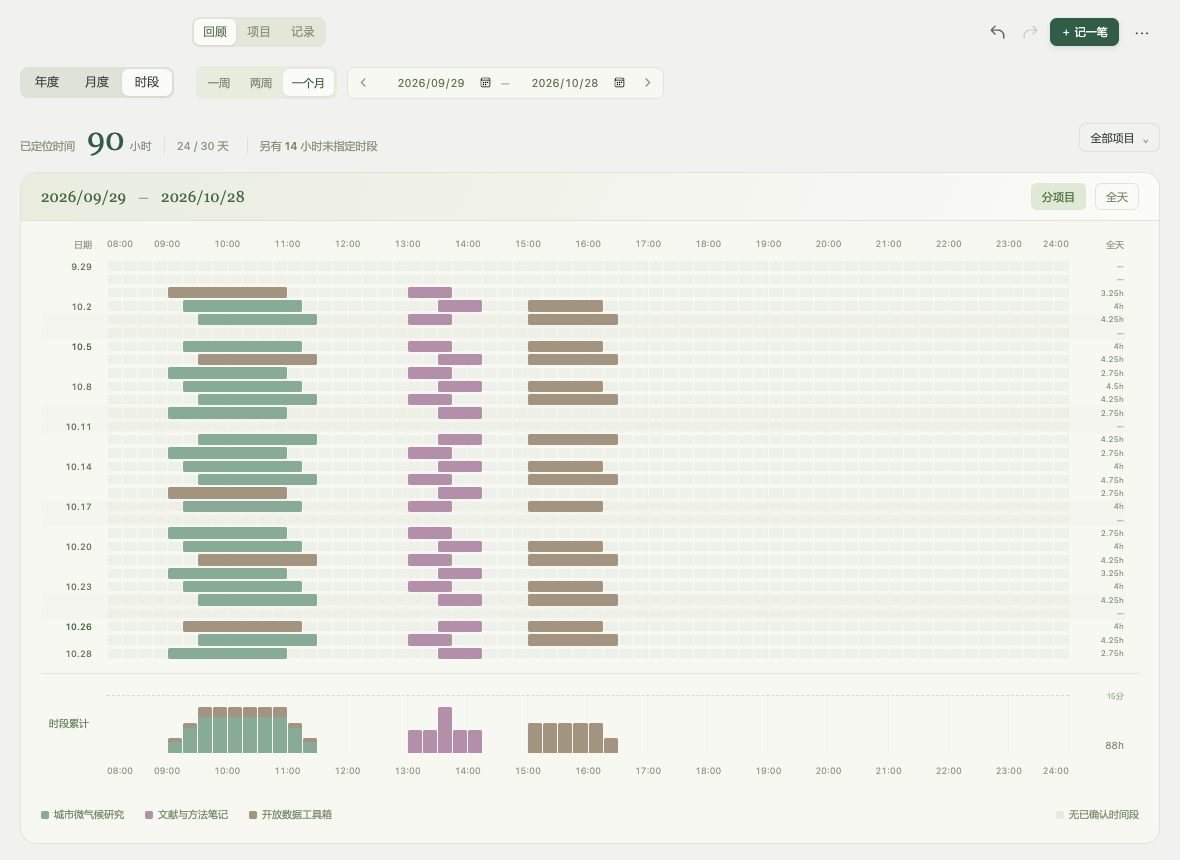
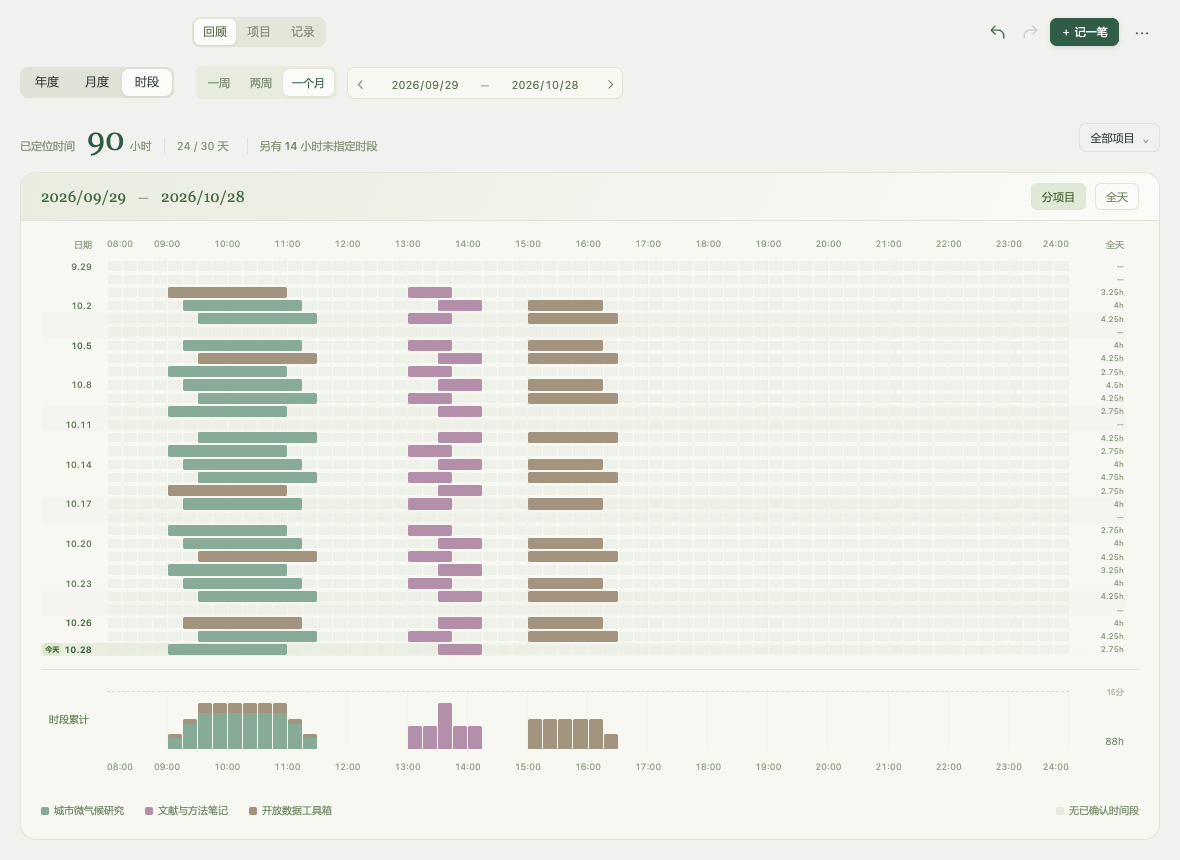
Add today marker and daily project hover; refine day navigation and inspector layout

diff --git a/src/web/time-review.js b/src/web/time-review.js
@@ -5,10 +5,20 @@ const clock=n=>n===1440?'24:00':`${String(Math.floor(n/60)).padStart(2,'0')}:${S
 const duration=n=>n>=60?fmt(n/60)+' 小时':fmt(n)+' 分钟';
 const color=value=>/^#[0-9a-f]{3,8}$/i.test(value||'')?value:'#8ba682';
 export function createTimeReview(root,{today,onChange,onSelect,onTimeline,onScroll}){
- let model=null,options=null,tip=null,highlighted='',wheelAmount=0,wheelTimer=0;
- const fit=()=>{const days=root.querySelector('.tr-days'),paper=root.querySelector('.tr-paper');if(!days||!root.getBoundingClientRect().width)return;const main=root.closest('main'),bottom=Math.min(innerHeight,main?.getBoundingClientRect().bottom||innerHeight),reserve=paper.getBoundingClientRect().bottom-days.getBoundingClientRect().bottom,available=Math.max(140,bottom-days.getBoundingClientRect().top-reserve-16),rowHeight=Math.max(10,Math.min(27,available/model.rows.length));days.style.height=rowHeight*model.rows.length+'px';days.classList.toggle('is-dense',rowHeight<19);days.style.setProperty('--tr-label-step',rowHeight<19?3:1)};
- const hideTip=()=>{if(tip)tip.hidden=true};
+ let model=null,options=null,tip=null,highlighted='',wheelAmount=0,wheelTimer=0,tipHideTimer=0,lastWheelStep=0;
+ const fit=()=>{
+  const days=root.querySelector('.tr-days'),paper=root.querySelector('.tr-paper');if(!days||!root.getBoundingClientRect().width)return;
+  const main=root.closest('main'),mainRect=main?.getBoundingClientRect(),bottom=Math.min(innerHeight,mainRect?.bottom||innerHeight)-parseFloat(main?getComputedStyle(main).paddingBottom:0),reserve=paper.getBoundingClientRect().bottom-days.getBoundingClientRect().bottom,available=Math.max(140,bottom-days.getBoundingClientRect().top-reserve),rowHeight=Math.max(10,available/model.rows.length);
+  days.style.height=rowHeight*model.rows.length+'px';days.classList.toggle('is-dense',rowHeight<19);
+  const axes=[...root.querySelectorAll('.tr-axis')],ticks=[...(axes[0]?.children||[])];ticks.forEach(t=>t.hidden=false);const hours=ticks.length-1,width=axes[0]?.getBoundingClientRect().width||1,widest=Math.max(0,...ticks.map(t=>t.getBoundingClientRect().width)),step=Array.from({length:hours},(_,i)=>i+1).find(n=>hours%n===0&&width/hours*n>=widest*1.5+8)||hours;
+  ticks.forEach((tick,i)=>{for(const axis of axes)axis.children[i].hidden=i%step!==0});
+  const layout=root.closest('.tr-layout'),sidebar=layout?.querySelector('.tr-inspector-host'),toolbar=root.closest('#page-review')?.querySelector('.toolbar');
+  if(sidebar&&toolbar){const split=!sidebar.hidden&&getComputedStyle(layout).gridTemplateColumns.split(' ').length>1;sidebar.style.marginTop=split?Math.min(0,toolbar.getBoundingClientRect().top-root.getBoundingClientRect().top)+'px':'0px';const top=sidebar.getBoundingClientRect().top,actions=sidebar.querySelector('.tr-inspector-actions').getBoundingClientRect().height;sidebar.style.setProperty('--tr-detail-height',Math.max(220,bottom-top-actions-8)+'px')}
+ };
+ const hideTip=()=>{clearTimeout(tipHideTimer);if(tip)tip.hidden=true};
+ const scheduleHide=()=>{clearTimeout(tipHideTimer);tipHideTimer=setTimeout(hideTip,100)};
  const request=next=>{hideTip();void onChange(next)};
+ function advanceWheel(){clearTimeout(wheelTimer);wheelTimer=0;if(Math.abs(wheelAmount)<180)return;const wait=160-(performance.now()-lastWheelStep);if(wait>0){wheelTimer=setTimeout(advanceWheel,wait);return}const direction=Math.sign(wheelAmount);wheelAmount=0;lastWheelStep=performance.now();shiftWindow(direction)}
  const lookup=id=>model.projects.find(p=>p.id===id);
  function paint(cell){
   if(!cell.minutes)return '';
@@ -28,9 +38,21 @@ export function createTimeReview(root,{today,onChange,onSelect,onTimeline,onScro
   const label=`${date} ${clock(cell.start)}–${clock(cell.start+15)}，${cell.minutes?cell.parts.map(p=>(lookup(p.projectId)?.name||'重叠待核对')+' '+duration(p.minutes)).join('，'):'无已确认时间段'}`;
   return `<button type="button" class="tr-cell ${cell.minutes?'has-time':''} ${connected(previous)?'joins-before':''} ${connected(next)?'joins-after':''}" data-tr-date="${date}" data-tr-cell="${index}" aria-label="${esc(label)}" ${index?'tabindex="-1"':''}>${paint(cell)}</button>`;
  }
+ function ensureTip(){clearTimeout(tipHideTimer);if(!tip){tip=document.createElement('div');tip.id='time-review-tip';tip.setAttribute('role','tooltip');tip.onpointerenter=()=>clearTimeout(tipHideTimer);tip.onpointerleave=hideTip;document.body.append(tip)}return tip}
+ function positionTip(target,event){
+  const rect=target.getBoundingClientRect(),box=tip.getBoundingClientRect(),x=event?.clientX??rect.left,y=event?.clientY??rect.bottom;
+  tip.style.left=Math.max(12,Math.min(x+14,innerWidth-box.width-12))+'px';
+  tip.style.top=(y+box.height+18<innerHeight?y+14:Math.max(12,y-box.height-14))+'px';
+ }
+ function showDayTip(target,event){
+  const row=model.rows.find(r=>r.date===target.dataset.trRow);if(!row)return;
+  ensureTip();tip.className='tr-tip tr-day-tip';const d=parseDate(row.date),weekday=['日','一','二','三','四','五','六'][d.getDay()];
+  tip.innerHTML=`<div class="tr-day-tip-date"><time>${row.date.replaceAll('-','/')} · 周${weekday}</time>${row.date===today?'<span>今天</span>':''}</div><div class="tr-day-tip-total"><span>已定位时间</span><strong>${duration(row.totalMinutes)}</strong></div>${row.projectMinutes.length?`<div class="tr-day-tip-bar" aria-hidden="true">${row.projectMinutes.map(p=>`<i class="${p.projectId==='!conflict'?'tr-conflict':''}" style="width:${p.minutes/row.totalMinutes*100}%;background:${color(lookup(p.projectId)?.color)}"></i>`).join('')}</div><div class="tr-day-tip-projects">${row.projectMinutes.map(p=>`<div><i class="${p.projectId==='!conflict'?'tr-conflict':''}" style="background:${color(lookup(p.projectId)?.color)}"></i><span>${esc(lookup(p.projectId)?.name||'重叠待核对')}</span><b>${duration(p.minutes)}</b><small>${fmt(p.minutes/row.totalMinutes*100)}%</small></div>`).join('')}</div>`:'<p class="tr-day-tip-empty">当天还没有已确认的时间段</p>'}${row.unlocatedHours||row.missingEstimates?`<div class="tr-day-tip-other">${row.unlocatedHours?`另有 ${fmt(row.unlocatedHours)} 小时未指定时段`:''}${row.missingEstimates?`${row.unlocatedHours?' · ':''}${row.missingEstimates} 条时长待配置`:''}</div>`:''}`;
+  tip.hidden=false;positionTip(target,event);
+ }
  function showTip(target){
   const row=target.closest('[data-tr-row]'),index=Number(target.dataset.trCell),cell=row?model.rows.find(r=>r.date===row.dataset.trRow)?.cells[index]:model.summary[index];if(!cell)return;
-  if(!tip){tip=document.createElement('div');tip.className='tr-tip';tip.id='time-review-tip';tip.setAttribute('role','tooltip');document.body.append(tip)}
+  ensureTip();tip.className='tr-tip';
   const date=row?`${row.dataset.trRow} · `:'时段累计 · ';const parts=!row&&highlighted?cell.parts.filter(p=>p.projectId===highlighted):cell.parts,total=parts.reduce((n,p)=>n+p.minutes,0);
   tip.innerHTML=`<small>${esc(date)}</small><div class="tr-tip-heading"><strong>${clock(cell.start)}–${clock(cell.start+15)}</strong><span>${duration(total)}</span></div>${parts.length?`<div class="tr-tip-projects">${parts.map(p=>`<div><i style="background:${color(lookup(p.projectId)?.color)}"></i><span>${esc(lookup(p.projectId)?.name||'重叠待核对')}</span><b>${duration(p.minutes)}</b></div>`).join('')}</div>`:'<p>没有已确认的时间段，不能据此判断这时没有工作。</p>'}${!row?`<p>柱高为 ${model.rows.length} 天的日均值：${duration(total/model.rows.length)}；上限 15 分钟。</p>`:'<p>点击查看当天记录 · 方向键切换时间格</p>'}`;
   tip.hidden=false;const rect=target.getBoundingClientRect(),box=tip.getBoundingClientRect();tip.style.left=Math.max(12,Math.min(rect.left,innerWidth-box.width-12))+'px';tip.style.top=(rect.bottom+box.height+12<innerHeight?rect.bottom+8:Math.max(8,rect.top-box.height-8))+'px';
@@ -41,11 +63,11 @@ export function createTimeReview(root,{today,onChange,onSelect,onTimeline,onScro
   const first=options.startHour===0?0:8,hours=24-first,slots=hours*4;
   const ticks=Array.from({length:hours+1},(_,i)=>`<span style="left:${i/hours*100}%">${String(first+i).padStart(2,'0')}:00</span>`).join('');
   const rows=model.rows.map(row=>{const d=parseDate(row.date),weekend=[0,6].includes(d.getDay()),weekStart=d.getDay()===1;
-   return `<div class="tr-row ${weekend?'is-weekend':''} ${weekStart?'starts-week':''} ${next.selectedDate===row.date?'is-selected':''}" data-tr-row="${row.date}"><button class="tr-day-label" data-tr-date="${row.date}" aria-label="查看 ${row.date} 当日记录"><strong>${Number(row.date.slice(5,7))}.${Number(row.date.slice(8))}</strong><small>${['日','一','二','三','四','五','六'][d.getDay()]}</small></button><div class="tr-cells">${row.cells.map((c,i)=>cellHTML(c,i,row.date,row.cells[i-1],row.cells[i+1])).join('')}</div><span class="tr-day-total" title="全天已确认时长，包括当前横轴未显示的时段">${row.totalMinutes?fmt(row.totalMinutes/60)+'h':'—'}</span></div>`;
+   return `<div class="tr-row ${weekend?'is-weekend':''} ${weekStart?'starts-week':''} ${row.date===today?'is-today':''} ${next.selectedDate===row.date?'is-selected':''}" data-tr-row="${row.date}"><button class="tr-day-label" data-tr-date="${row.date}" aria-label="查看 ${row.date}${row.date===today?'，今天':''} 当日记录" ${row.date===today?'aria-current="date"':''}><strong>${Number(row.date.slice(5,7))}.${Number(row.date.slice(8))}</strong>${row.date===today?'<span class="tr-today-tag" aria-hidden="true">今天</span>':`<small>${['日','一','二','三','四','五','六'][d.getDay()]}</small>`}</button><div class="tr-cells">${row.cells.map((c,i)=>cellHTML(c,i,row.date,row.cells[i-1],row.cells[i+1])).join('')}</div><span class="tr-day-total" title="全天已确认时长，包括当前横轴未显示的时段">${row.totalMinutes?fmt(row.totalMinutes/60)+'h':'—'}</span></div>`;
   }).join('');
   const legend=next.colorMode==='project'?model.projects.filter(p=>model.usedProjects.includes(p.id)).map(p=>`<button type="button" data-tr-highlight="${esc(p.id)}" aria-label="突出显示 ${esc(p.name)}"><i style="background:${color(p.color)}"></i>${esc(p.name)}</button>`).join(''):`<span><i class="tr-ink tr-level-5"></i>已确认</span>`;
   const side=next.anchorSide==='start'?'start':'end';
-  root.innerHTML=`<div class="tr-controls"><div class="tr-presets" aria-label="显示天数">${[['7','一周'],['14','两周'],['30','一个月']].map(([key,label])=>`<button type="button" data-tr-preset="${key}" aria-pressed="${next.preset===key}" class="quiet ${next.preset===key?'active':''}" title="固定显示 ${key} 天">${label}</button>`).join('')}</div><div class="tr-date-fields"><button id="tr-prev" aria-label="前一段日期"><svg viewBox="0 0 20 20" aria-hidden="true"><path d="m12 5-5 5 5 5"/></svg></button><input id="tr-start" type="date" min="1900-01-01" max="2200-12-31" value="${next.start}" aria-label="时段开始日期"><span class="tr-date-separator">—</span><input id="tr-end" type="date" min="1900-01-01" max="2200-12-31" value="${next.end}" aria-label="时段结束日期"><button id="tr-next" aria-label="后一段日期"><svg viewBox="0 0 20 20" aria-hidden="true"><path d="m8 5 5 5-5 5"/></svg></button></div></div><p id="tr-range-error" class="tr-error" role="alert" hidden></p>
+  root.innerHTML=`<div class="tr-controls"><div class="tr-presets" aria-label="显示天数">${[['7','一周'],['14','两周'],['30','一个月']].map(([key,label])=>`<button type="button" data-tr-preset="${key}" aria-pressed="${next.preset===key}" class="quiet ${next.preset===key?'active':''}" title="固定显示 ${key} 天">${label}</button>`).join('')}</div><div class="tr-date-fields"><button id="tr-prev" aria-label="前一天"><svg viewBox="0 0 20 20" aria-hidden="true"><path d="m12 5-5 5 5 5"/></svg></button><input id="tr-start" type="date" min="1900-01-01" max="2200-12-31" value="${next.start}" aria-label="时段开始日期"><span class="tr-date-separator">—</span><input id="tr-end" type="date" min="1900-01-01" max="2200-12-31" value="${next.end}" aria-label="时段结束日期"><button id="tr-next" aria-label="后一天"><svg viewBox="0 0 20 20" aria-hidden="true"><path d="m8 5 5 5-5 5"/></svg></button></div></div><p id="tr-range-error" class="tr-error" role="alert" hidden></p>
   <div class="tr-overview"><div><span>已定位时间</span><strong>${fmt(model.totalMinutes/60)}<small>小时</small></strong><span class="tr-days-count">${model.recordedDays} / ${model.rows.length} 天</span><p>另有 <b>${fmt(model.unlocatedHours)}</b> 小时未指定时段${model.estimatedHours?'（含估算）':''}${model.missingEstimates?` · ${model.missingEstimates} 条待配置估算`:''}</p></div></div>
   <div class="tr-outside-tools"><div id="tr-project-filter-host" class="filters"></div></div><section class="tr-paper" aria-label="日期与时间段热力图"><div class="tr-chart-tools"><div class="tr-range-caption"><time datetime="${next.start}">${next.start.replaceAll('-','/')}</time><span>—</span><time datetime="${next.end}">${next.end.replaceAll('-','/')}</time></div><div class="tr-display-controls"><button type="button" id="tr-by-project" aria-pressed="${next.colorMode==='project'}" class="quiet ${next.colorMode==='project'?'active':''}">分项目</button><button id="tr-full-day" class="quiet ${first===0?'active':''}" aria-pressed="${first===0}">全天</button></div></div>
   ${model.conflictMinutes?'<p class="tr-outside">部分已确认区间重叠，已去重；项目归属请到记录页核对。</p>':''}
@@ -57,23 +79,26 @@ export function createTimeReview(root,{today,onChange,onSelect,onTimeline,onScro
   root.querySelectorAll('[data-tr-preset]').forEach(b=>b.onclick=()=>request({...timeReviewRange(b.dataset.trPreset,next[side],side),selectedDate:'',scrollTop:0}));
   root.querySelector('#tr-by-project').onclick=()=>request({colorMode:next.colorMode==='project'?'effort':'project'});
   root.querySelector('#tr-full-day').onclick=()=>request({startHour:first===0?8:0});
-  root.querySelector('#tr-prev').onclick=()=>shiftWindow(-model.rows.length);root.querySelector('#tr-next').onclick=()=>shiftWindow(model.rows.length);
+  root.querySelector('#tr-prev').onclick=()=>shiftWindow(-1);root.querySelector('#tr-next').onclick=()=>shiftWindow(1);
+  for(const id of ['tr-start','tr-end'])root.querySelector('#'+id).onclick=e=>{try{e.currentTarget.showPicker?.()}catch{}};
   for(const [id,side]of [['tr-start','start'],['tr-end','end']])root.querySelector('#'+id).onchange=e=>{const anchor=e.target.value,notice=root.querySelector('#tr-range-error'),range=validTimeDate(anchor)?timeReviewRange(next.preset,anchor,side):null,valid=range&&validTimeDate(range.start)&&validTimeDate(range.end);notice.hidden=!!valid;if(!valid){notice.textContent='请选择有效日期。';return}request({...range,selectedDate:'',scrollTop:0})};
-  root.querySelector('.tr-days').addEventListener('wheel',e=>{if(Math.abs(e.deltaX)>=Math.abs(e.deltaY)||e.ctrlKey||e.metaKey)return;e.preventDefault();wheelAmount+=e.deltaY*(e.deltaMode===1?16:e.deltaMode===2?200:1);clearTimeout(wheelTimer);wheelTimer=setTimeout(()=>{const steps=Math.trunc(wheelAmount/35);wheelAmount=0;if(steps)shiftWindow(Math.max(-model.rows.length,Math.min(model.rows.length,steps)))},100)},{passive:false});
+  root.querySelector('.tr-days').addEventListener('wheel',e=>{if(Math.abs(e.deltaX)>=Math.abs(e.deltaY)||e.ctrlKey||e.metaKey)return;e.preventDefault();wheelAmount=Math.max(-240,Math.min(240,wheelAmount+e.deltaY*(e.deltaMode===1?16:e.deltaMode===2?180:1)));advanceWheel()},{passive:false});
   root.querySelectorAll('[data-tr-highlight]').forEach(b=>{b.onpointerenter=()=>highlight(b.dataset.trHighlight);b.onpointerleave=()=>highlight('');b.onfocus=()=>highlight(b.dataset.trHighlight);b.onblur=()=>highlight('')});
   root.querySelectorAll('[data-tr-date]').forEach(b=>b.onclick=()=>{hideTip();const row=model.rows.find(r=>r.date===b.dataset.trDate),cell=b.dataset.trCell!==undefined?row?.cells[Number(b.dataset.trCell)]:null,id=cell?.parts.length===1&&lookup(cell.parts[0].projectId)?cell.parts[0].projectId:null;void onSelect(b.dataset.trDate,id)});
+  root.querySelectorAll('[data-tr-row]').forEach(row=>{row.onpointerenter=e=>showDayTip(row,e);row.onpointerleave=scheduleHide;row.onpointermove=e=>{if(tip&&!tip.hidden&&tip.classList.contains('tr-day-tip'))positionTip(row,e)};const date=row.querySelector('.tr-day-label');date.onfocus=()=>showDayTip(row);date.onblur=hideTip});
   wireCells();
   root.querySelector('.tr-days').onscroll=()=>{hideTip();onScroll?.({scrollTop:root.querySelector('.tr-days').scrollTop})};root.querySelector('.tr-scroll').onscroll=()=>{hideTip();onScroll?.({scrollLeft:root.querySelector('.tr-scroll').scrollLeft})};
   requestAnimationFrame(()=>{fit();root.querySelector('.tr-days').scrollTop=oldTop;root.querySelector('.tr-scroll').scrollLeft=oldLeft});
   root.querySelector('#tr-open-records')?.addEventListener('click',()=>onTimeline(next.end));
  }
  function wireCells(){
-  root.querySelectorAll('.tr-cell,.tr-summary-cell').forEach(b=>{b.onpointerenter=()=>showTip(b);b.onpointerleave=hideTip;b.onfocus=()=>showTip(b);b.onblur=hideTip;b.onkeydown=e=>{
+  root.querySelectorAll('.tr-cell,.tr-summary-cell').forEach(b=>{b.onpointerenter=e=>{const row=b.closest('[data-tr-row]');row?showDayTip(row,e):showTip(b)};b.onpointerleave=()=>{if(!b.closest('[data-tr-row]'))hideTip()};b.onfocus=()=>showTip(b);b.onblur=hideTip;b.onkeydown=e=>{
    if(!['ArrowLeft','ArrowRight','ArrowUp','ArrowDown','Home','End'].includes(e.key))return;e.preventDefault();const row=b.closest('.tr-row'),items=[...b.parentElement.children],i=items.indexOf(b);let target;
    if(e.key==='Home')target=items[0];else if(e.key==='End')target=items.at(-1);else if(e.key==='ArrowLeft'||e.key==='ArrowRight')target=items[i+(e.key==='ArrowLeft'?-1:1)];else if(row){const sibling=e.key==='ArrowUp'?row.previousElementSibling:row.nextElementSibling;target=sibling?.querySelectorAll('.tr-cell')[i]}
    if(target){b.tabIndex=-1;target.tabIndex=0;target.focus({preventScroll:true});target.scrollIntoView({block:'nearest',inline:'nearest'})}
   }});
  }
- window.addEventListener('scroll',hideTip,true);window.addEventListener('resize',()=>{hideTip();fit()});
+ new ResizeObserver(fit).observe(root);
+ window.addEventListener('scroll',e=>{if(!tip?.contains(e.target))hideTip()},true);window.addEventListener('resize',()=>{hideTip();fit()});
  return {render,hideTip};
 }

diff --git a/src/web/time-review.css b/src/web/time-review.css
@@ -133,3 +133,43 @@
 @media(max-width:650px){.tr-paper{--tr-padding-x:10px;--tr-padding-top:13px}.tr-chart-tools{padding-top:8px;padding-bottom:8px}}
 .tr-day-label{justify-content:flex-end;padding:0 5px 0 0;text-align:right}
 .tr-axis-row>span:first-child{text-align:right;padding-right:5px}
+
+/* Today stays visible even when date labels are thinned in a dense month view. */
+.tr-row.is-today{background:linear-gradient(90deg,#e0e9d4aa,#e8efdf55 55%,transparent)}
+.tr-row.is-today .tr-day-label{gap:3px;color:#3b6542}
+.tr-row.is-today .tr-day-label strong{font-weight:650}
+.tr-today-tag{display:inline-flex;align-items:center;justify-content:center;flex:none;min-width:18px;height:12px;border-radius:3px;padding:0 2px;background:#dbe7cf;color:#476b3f;font-size:7px;line-height:1;font-weight:600}
+.tr-days.is-dense .tr-row.is-today .tr-day-label{color:#3b6542}
+.tr-day-tip{width:304px;min-width:0;max-width:calc(100vw - 24px);padding:15px 17px;border-radius:12px;background:linear-gradient(135deg,#f5f8ef,#fafbf7 65%);max-height:calc(100vh - 24px);overflow:auto;scrollbar-width:thin;pointer-events:auto}
+.tr-day-tip-date{display:flex;align-items:center;justify-content:space-between;gap:12px;color:#8a9b7c;font-size:10px;font-variant-numeric:tabular-nums}
+.tr-day-tip-date>span{font-size:9px;border-radius:4px;padding:2px 6px;color:#4e7143;background:#e2ebd8}
+.tr-day-tip-total{display:flex;align-items:baseline;justify-content:space-between;gap:14px;margin-top:9px;color:#849476;font-size:10px}
+.tr-day-tip-total strong{font:500 22px/1.35 Georgia,var(--serif);color:#375d3c;white-space:nowrap;font-variant-numeric:tabular-nums}
+.tr-day-tip-bar{height:6px;display:flex;gap:2px;border-radius:3px;overflow:hidden;margin:12px 0 10px}
+.tr-day-tip-bar>i{display:block;min-width:1px}
+.tr-day-tip-projects{display:grid;gap:9px;padding-top:3px}
+.tr-day-tip-projects>div{display:grid;grid-template-columns:6px minmax(0,1fr) auto 38px;gap:7px;align-items:center;font-size:11px;line-height:1.4}
+.tr-day-tip-projects i{height:6px;width:6px;border-radius:50%}
+.tr-day-tip-projects span{overflow-wrap:anywhere;color:#566c49}
+.tr-day-tip-projects b{font-size:10px;font-weight:500;white-space:nowrap;color:#536c44;text-align:right;font-variant-numeric:tabular-nums}
+.tr-day-tip-projects small{font-size:9px;color:#99a58e;text-align:right;white-space:nowrap;font-variant-numeric:tabular-nums}
+.tr-day-tip-other{border-top:1px solid #e0e6d8;margin-top:12px;padding-top:9px;font-size:10px;line-height:1.6;color:#95a187}
+.tr-day-tip-empty{padding:11px 0 2px}
+.tr-today-tag{order:-1}
+
+/* Equal date fields and small, symmetric gaps around the separator/arrows. */
+.tr-date-fields{display:grid;grid-template-columns:20px 104px 10px 104px 20px;gap:3px;padding:0 2px;align-items:center}
+.tr-date-fields input,.tr-date-fields #tr-prev,.tr-date-fields #tr-next{width:100%;margin:0}
+.tr-date-fields input{padding:0 2px;text-align:center;min-width:0}
+.tr-date-fields input::-webkit-calendar-picker-indicator{display:none}
+.tr-date-fields input::-webkit-datetime-edit{padding:0;text-align:center}
+.tr-date-fields input::-webkit-datetime-edit-fields-wrapper{padding:0}
+.tr-date-separator{text-align:center;display:block}
+.tr-axis span[hidden]{display:none}
+.tr-inspector-host{position:sticky;top:0;align-self:start;min-width:0}
+.tr-inspector-actions{margin:0 3px 8px;min-height:24px}
+.tr-inspector-host #month-inspector{position:relative;inset:auto;width:100%;min-height:0;margin:0;max-height:var(--tr-detail-height,calc(100vh - 120px))}
+@media(min-width:1081px){.time-view:has(.tr-layout.has-inspector)>.toolbar{width:calc(100% - 410px)}}
+@media(max-width:1080px){.tr-inspector-host{position:static;margin-top:0!important}.tr-inspector-host #month-inspector{max-height:none}}
+@media(max-width:650px){.tr-date-fields{grid-template-columns:18px 100px 10px 100px 18px;gap:2px}.tr-date-fields input{width:100%}}
+html.native-mac:has(#page-review.time-view:not([hidden])){border-radius:0 0 16px 16px;overflow:hidden}

diff --git a/src/web/time-review-model.js b/src/web/time-review-model.js
@@ -40,8 +40,8 @@ export function buildTimeReview(state,{start,end,startHour=8,projectIds=[]}){
    if(!known.has(block.projectId)||!Number.isInteger(block.start)||!Number.isInteger(block.end)||block.start<0||block.end>1440||block.start>=block.end)continue;
    for(let n=block.start;n<block.end;n++){if(minutes[n]===null)minutes[n]=block.projectId;else if(minutes[n]!==block.projectId)minutes[n]='!conflict'}
   }
-  let dailyTotal=0,dailyVisible=0;
-  for(const id of minutes)if(id!==null){dailyTotal++;if(id!=='!conflict')usedProjects.add(id);else conflictMinutes++}
+  let dailyTotal=0,dailyVisible=0,dailyUnlocatedHours=0,dailyMissingEstimates=0;const dailyParts=new Map();
+  for(const id of minutes)if(id!==null){dailyParts.set(id,(dailyParts.get(id)||0)+1);dailyTotal++;if(id!=='!conflict')usedProjects.add(id);else conflictMinutes++}
   const cells=summary.map((_,i)=>{
    const start=(first+i)*15,parts=new Map();let total=0;
    for(let n=start;n<start+15;n++)if(minutes[n]!==null){total++;parts.set(minutes[n],(parts.get(minutes[n])||0)+1)}
@@ -50,9 +50,9 @@ export function buildTimeReview(state,{start,end,startHour=8,projectIds=[]}){
   });
   for(const e of entriesByDate.get(date)||[]){
    const other=otherEntry(state,e.projectId,date),hours=entryHours(other,state.settings?.estimates||{});
-   if(hours===null){missingEstimates++;continue}unlocatedHours+=Math.max(0,hours||0);if(other.kind!=='hours'&&other.kind!=='none')estimatedHours+=Math.max(0,hours||0);
+   if(hours===null){missingEstimates++;dailyMissingEstimates++;continue}dailyUnlocatedHours+=Math.max(0,hours||0);unlocatedHours+=Math.max(0,hours||0);if(other.kind!=='hours'&&other.kind!=='none')estimatedHours+=Math.max(0,hours||0);
   }
-  totalMinutes+=dailyTotal;visibleMinutes+=dailyVisible;rows.push({date,totalMinutes:dailyTotal,visibleMinutes:dailyVisible,cells});
+  totalMinutes+=dailyTotal;visibleMinutes+=dailyVisible;rows.push({date,totalMinutes:dailyTotal,visibleMinutes:dailyVisible,projectMinutes:[...dailyParts].map(([projectId,minutes])=>({projectId,minutes})).sort((a,b)=>b.minutes-a.minutes||a.projectId.localeCompare(b.projectId)),unlocatedHours:dailyUnlocatedHours,missingEstimates:dailyMissingEstimates,cells});
  }
  return {start,end,startHour:first/4,projects,usedProjects:[...usedProjects],rows,summary:summary.map(s=>({...s,parts:[...s.parts].map(([projectId,minutes])=>({projectId,minutes}))})),totalMinutes,visibleMinutes,hiddenMinutes:totalMinutes-visibleMinutes,unlocatedHours,estimatedHours,missingEstimates,conflictMinutes,recordedDays:rows.filter(r=>r.totalMinutes>0).length};
 }

diff --git a/src/tests/time-review.test.js b/src/tests/time-review.test.js
@@ -10,6 +10,7 @@ test('time review uses applied allocations only, keeps unlocated totals separate
  assert.equal(m.totalMinutes,150);assert.equal(m.visibleMinutes,90);assert.equal(m.hiddenMinutes,60);
  assert.equal(m.unlocatedHours,3);assert.equal(m.estimatedHours,2);assert.equal(m.recordedDays,1);assert.equal(m.summary.length,64);
  assert.equal(m.rows[0].cells[4].minutes,15);assert.equal(m.rows[0].cells[28].minutes,0,'unconfirmed selection is excluded');
+ assert.deepEqual(m.rows[0].projectMinutes,[{projectId:'a',minutes:150}],'daily distribution includes early hours but excludes unconfirmed blocks');assert.equal(m.rows[0].unlocatedHours,3);
  assert.equal(m.summary.reduce((s,c)=>s+c.minutes,0),90);assert.deepEqual(state,before,'review must not modify records');
  const all=buildTimeReview(state,{...options,startHour:0});assert.equal(all.summary.length,96);assert.equal(all.visibleMinutes,150);assert.equal(all.hiddenMinutes,0);
 });
@@ -21,7 +22,7 @@ test('project filters include confirmed blocks even without an entry and ignore 
 test('duplicate and overlapping allocations count unique minutes and flag ambiguous attribution',()=>{
  const state=fixture();state.timelineDays[date].applied=[block(540,600),block(540,600),block(570,630,'b')];
  const m=buildTimeReview(state,options);assert.equal(m.totalMinutes,90);assert.equal(m.conflictMinutes,30);assert.equal(m.summary.reduce((s,c)=>s+c.minutes,0),90);
- assert.deepEqual(m.rows[0].cells[6].parts,[{projectId:'!conflict',minutes:15}]);
+ assert.deepEqual(m.rows[0].cells[6].parts,[{projectId:'!conflict',minutes:15}]);assert.equal(m.rows[0].projectMinutes.reduce((n,p)=>n+p.minutes,0),90,'daily hover totals use unique minutes including a separate conflict bucket');
 });
 test('ranges retain empty dates, support leap day and have a bounded size',()=>{
  const state=fixture();const m=buildTimeReview(state,{start:'2024-02-28',end:'2024-03-01'});assert.equal(m.rows.length,3);assert.equal(m.rows[1].date,'2024-02-29');assert.equal(m.totalMinutes,0);assert(m.rows.every(r=>r.cells.every(c=>c.minutes===0)));
